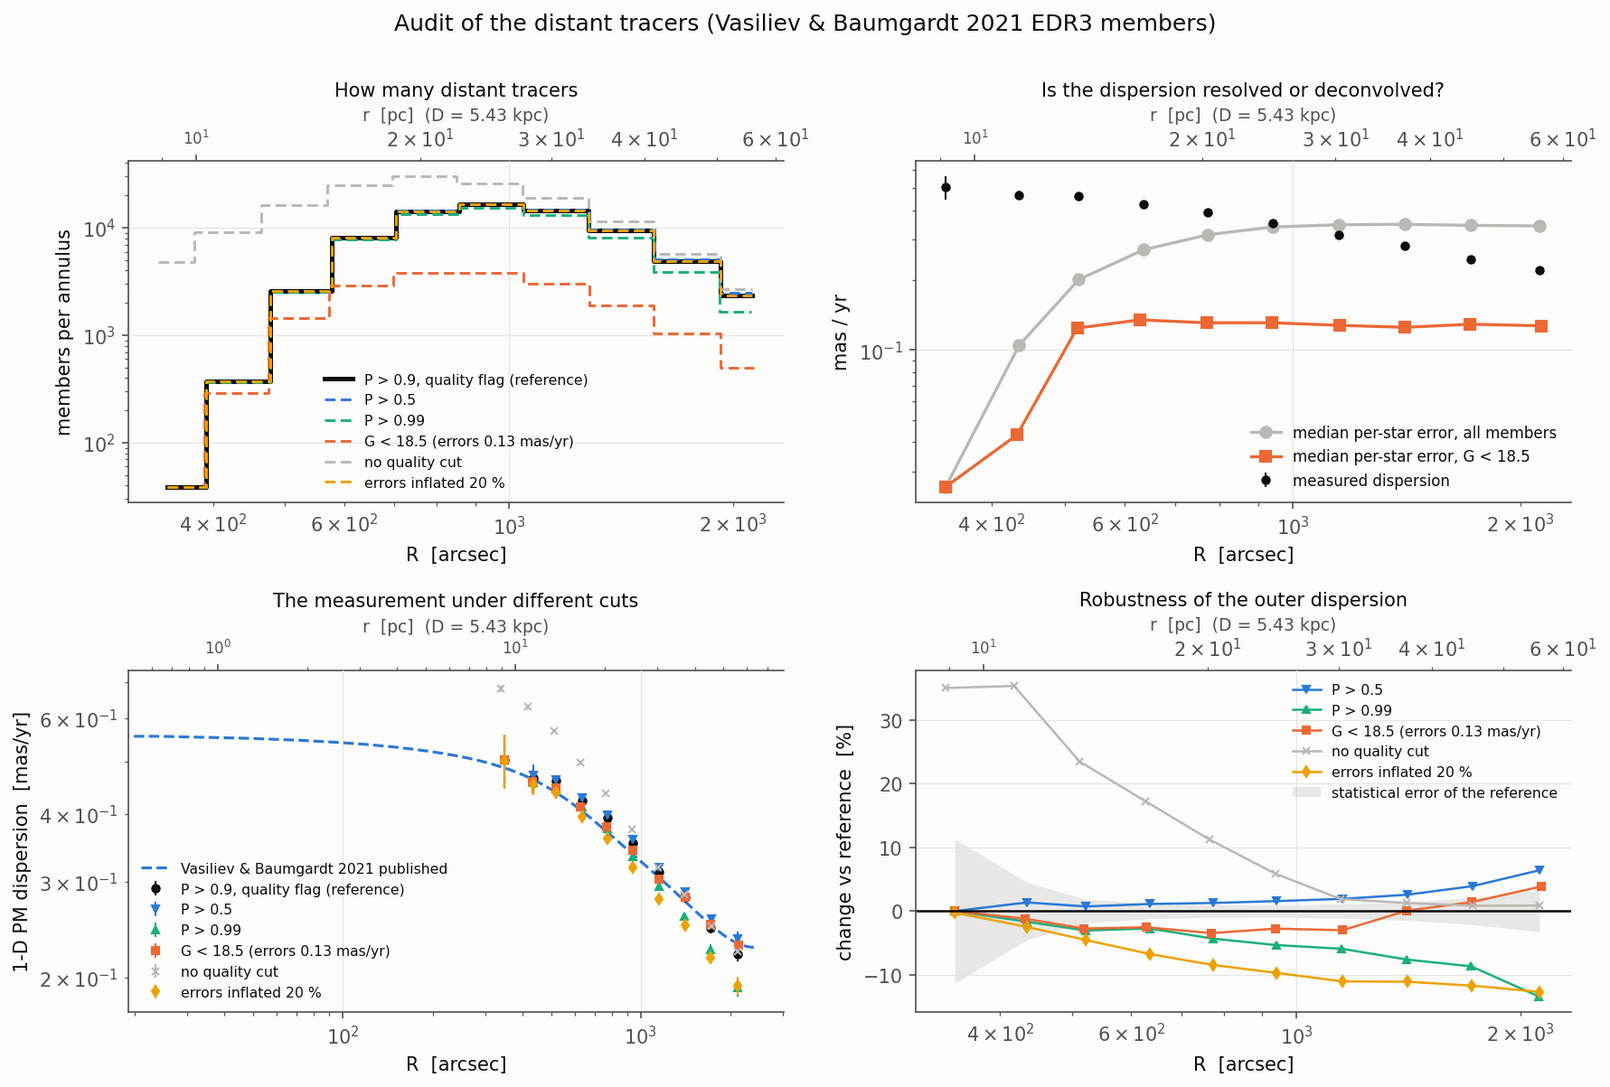
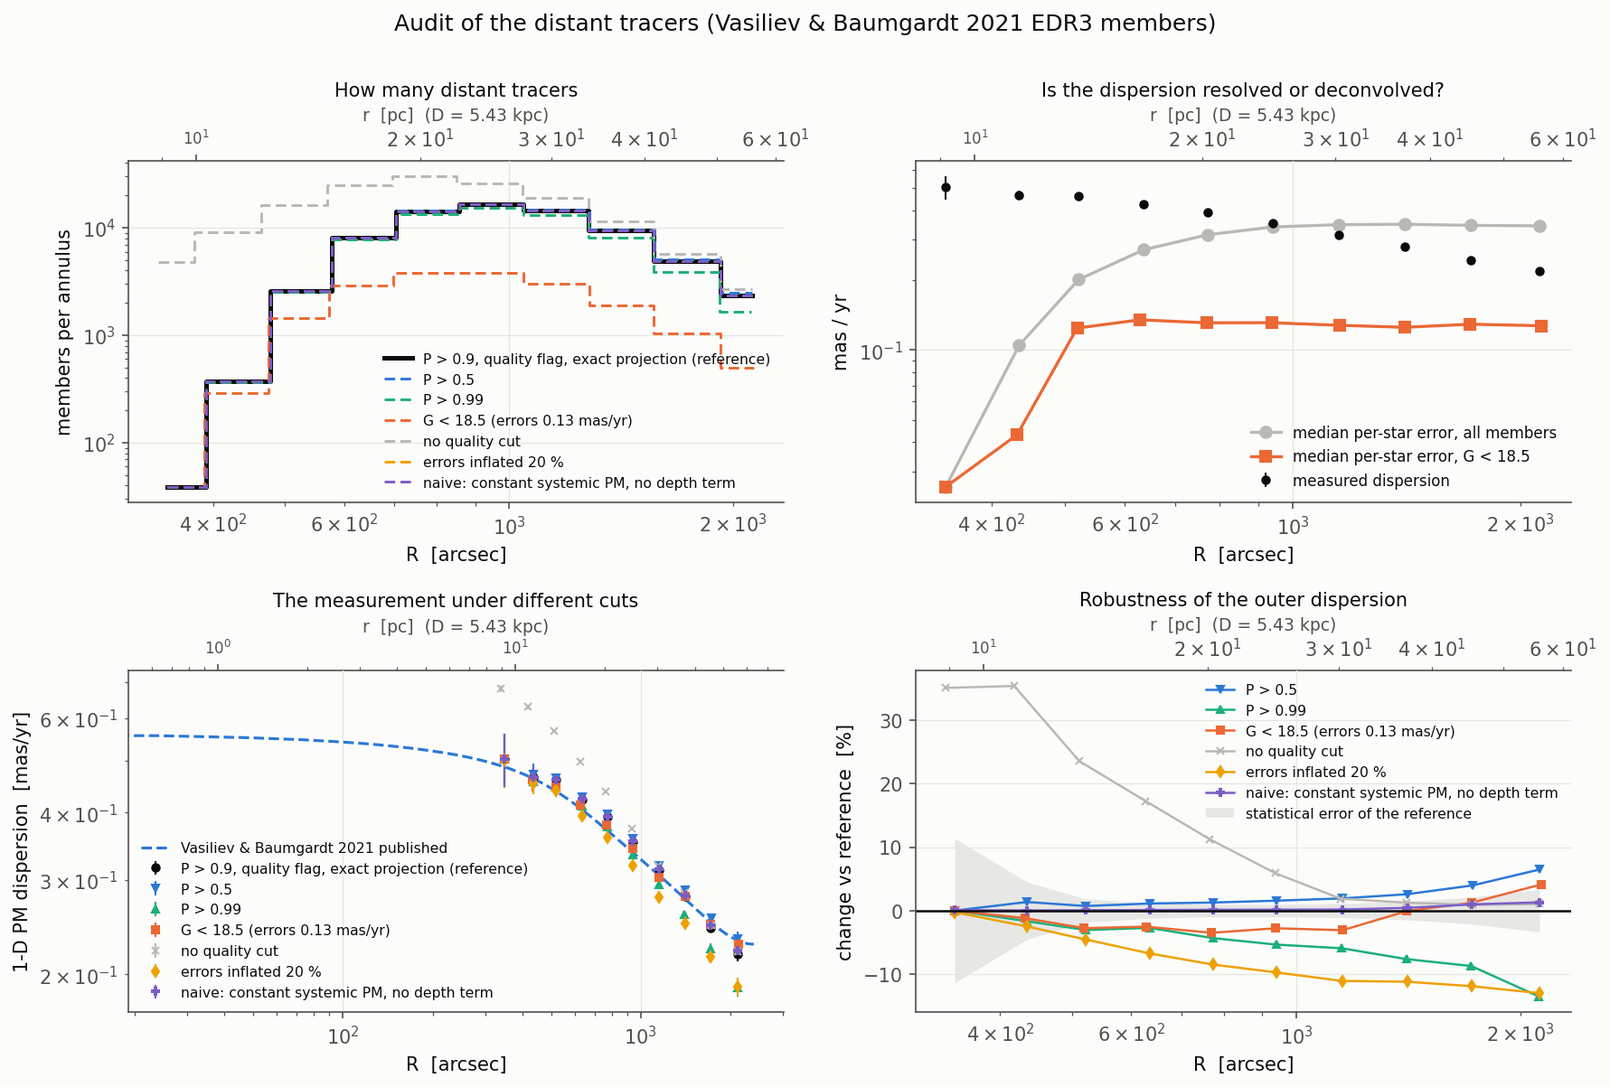
Exact systemic-PM field and line-of-sight depth term for the outer dispersion (Vasiliev & Belokurov 2020 sec 5.1); rigid-cluster mock test

diff --git a/src/ocen_dm/kinematics/outer_profile.py b/src/ocen_dm/kinematics/outer_profile.py
@@ -29,6 +29,7 @@ from astropy.table import Table
 from scipy import optimize
 
 from ..paths import processed_dir
+from .perspective import depth_dispersion, systemic_pm_field, systemic_velocity_vector
 
 __all__ = ["MemberSample", "load_members", "systemic_pm", "dispersion_ml", "binned_dispersion",
            "OCEN_RA", "OCEN_DEC", "OCEN_VSYS_KMS", "KMS_PER_MASYR_KPC"]
@@ -57,15 +58,17 @@ class MemberSample:
     prob: np.ndarray
     g_mag: np.ndarray
     quality_flag: np.ndarray
+    phi: np.ndarray                       # position angle of each star, rad, north through east
     mu_sys: tuple[float, float] = (0.0, 0.0)
+    exact: bool = True                    # systemic field projected star by star, or a constant
 
     def __len__(self) -> int:
         return len(self.r_arcsec)
 
     def select(self, mask: np.ndarray) -> "MemberSample":
         return MemberSample(*(np.asarray(getattr(self, f))[mask] for f in
-                              ("r_arcsec", "mu_r", "mu_t", "err_r", "err_t", "prob", "g_mag", "quality_flag")),
-                            mu_sys=self.mu_sys)
+                              ("r_arcsec", "mu_r", "mu_t", "err_r", "err_t", "prob", "g_mag", "quality_flag", "phi")),
+                            mu_sys=self.mu_sys, exact=self.exact)
 
 
 def systemic_pm(table: Table, r_arcsec: np.ndarray, prob_min: float = 0.9,
@@ -80,11 +83,18 @@ def systemic_pm(table: Table, r_arcsec: np.ndarray, prob_min: float = 0.9,
 
 
 def load_members(path: Any = None, ra0: float = OCEN_RA, dec0: float = OCEN_DEC,
-                 mu_sys: tuple[float, float] | None = None) -> MemberSample:
+                 mu_sys: tuple[float, float] | None = None, v_los: float = OCEN_VSYS_KMS,
+                 distance_kpc: float = 5.43, exact: bool = True) -> MemberSample:
     """Read the processed member table and project PMs and their covariance to (R, T).
 
-    ``mu_sys`` (mas/yr) is subtracted before projecting; by default it is measured from the
-    secure members inside 600 arcsec.
+    The systemic motion is removed **star by star**: the cluster's 3-D velocity (from
+    ``mu_sys`` at the centre, ``v_los`` and ``distance_kpc``) is projected onto each star's
+    own tangent basis (:func:`~ocen_dm.kinematics.perspective.systemic_pm_field`), which
+    carries the perspective contraction and the rotation of the equatorial basis across the
+    field exactly. ``exact=False`` subtracts the constant ``mu_sys`` instead (the naive
+    treatment, kept for comparison). ``mu_sys`` defaults to the error-weighted mean of the
+    secure members inside 600 arcsec, iterated once so that the field's own perspective
+    term does not bias it.
     """
     table = Table.read(path or processed_dir() / "tails" / "vasiliev2021_ocen_members.ecsv")
     ra = np.asarray(table["ra"], float); dec = np.asarray(table["dec"], float)
@@ -95,8 +105,22 @@ def load_members(path: Any = None, ra0: float = OCEN_RA, dec0: float = OCEN_DEC,
     cos_p, sin_p = x / safe, y / safe                            # radial unit vector in (pmra*, pmdec)
     if mu_sys is None:
         mu_sys = systemic_pm(table, r)
-    pmra = np.asarray(table["pmra"], float) - mu_sys[0]
-    pmdec = np.asarray(table["pmdec"], float) - mu_sys[1]
+        if exact:                                   # remove the field once, re-estimate the centre value
+            v0 = systemic_velocity_vector(ra0, dec0, mu_sys[0], mu_sys[1], v_los, distance_kpc)
+            fa, fd = systemic_pm_field(ra, dec, v0, distance_kpc)
+            fa0, fd0 = systemic_pm_field(np.array([ra0]), np.array([dec0]), v0, distance_kpc)
+            corr = Table({"pmra": np.asarray(table["pmra"], float) - (fa - fa0[0]),
+                          "pmdec": np.asarray(table["pmdec"], float) - (fd - fd0[0]),
+                          "pmra_error": table["pmra_error"], "pmdec_error": table["pmdec_error"],
+                          "membership_prob": table["membership_prob"]})
+            mu_sys = systemic_pm(corr, r)
+    if exact:
+        v_sys = systemic_velocity_vector(ra0, dec0, mu_sys[0], mu_sys[1], v_los, distance_kpc)
+        exp_a, exp_d = systemic_pm_field(ra, dec, v_sys, distance_kpc)
+    else:
+        exp_a, exp_d = mu_sys[0], mu_sys[1]
+    pmra = np.asarray(table["pmra"], float) - exp_a
+    pmdec = np.asarray(table["pmdec"], float) - exp_d
     mu_r = pmra * cos_p + pmdec * sin_p
     mu_t = -pmra * sin_p + pmdec * cos_p
     ea = np.asarray(table["pmra_error"], float); ed = np.asarray(table["pmdec_error"], float)
@@ -106,14 +130,17 @@ def load_members(path: Any = None, ra0: float = OCEN_RA, dec0: float = OCEN_DEC,
     err_t = np.sqrt(np.maximum((ea * sin_p) ** 2 + (ed * cos_p) ** 2 - 2 * cov_ad * cos_p * sin_p, 0.0))
     return MemberSample(r, mu_r, mu_t, err_r, err_t,
                         np.asarray(table["membership_prob"], float), np.asarray(table["g_mag"], float),
-                        np.asarray(table["quality_flag"], int), mu_sys=tuple(mu_sys))
+                        np.asarray(table["quality_flag"], int), np.arctan2(x, y),
+                        mu_sys=(float(mu_sys[0]), float(mu_sys[1])), exact=exact)
 
 
 def dispersion_ml(values: np.ndarray, errors: np.ndarray, err_scale: float = 1.0,
-                  sigma_sys: float = 0.0) -> tuple[float, float, float]:
+                  sigma_sys: float = 0.0, extra_var: np.ndarray | float = 0.0) -> tuple[float, float, float]:
     """Maximum-likelihood mean and intrinsic dispersion with per-star errors deconvolved.
 
-    Model: ``value_i ~ N(mean, sigma^2 + (err_scale * err_i)^2 + sigma_sys^2)``.
+    Model: ``value_i ~ N(mean, sigma^2 + (err_scale * err_i)^2 + sigma_sys^2 + extra_var_i)``;
+    ``extra_var`` carries known per-star apparent-dispersion terms such as the line-of-sight
+    depth effect of the systemic proper motion.
 
     Parameters
     ----------
@@ -128,7 +155,7 @@ def dispersion_ml(values: np.ndarray, errors: np.ndarray, err_scale: float = 1.0
         ``sigma`` is the intrinsic dispersion in the units of ``values``; ``sigma_error``
         comes from the curvature of the profile likelihood.
     """
-    v = np.asarray(values, float); e2 = (err_scale * np.asarray(errors, float)) ** 2 + sigma_sys**2
+    v = np.asarray(values, float); e2 = (err_scale * np.asarray(errors, float)) ** 2 + sigma_sys**2 + np.asarray(extra_var, float)
     n = len(v)
     if n < 5:
         return np.nan, np.nan, np.nan
@@ -153,8 +180,16 @@ def dispersion_ml(values: np.ndarray, errors: np.ndarray, err_scale: float = 1.0
 
 def binned_dispersion(sample: MemberSample, edges: np.ndarray, prob_min: float = 0.9,
                       g_range: tuple[float, float] = (-np.inf, np.inf), err_scale: float = 1.0,
-                      sigma_sys: float = 0.0, quality_mask: int | None = None) -> Table:
+                      sigma_sys: float = 0.0, quality_mask: int | None = None,
+                      depth_tracer: Any = None, distance_kpc: float = 5.43) -> Table:
     """Radial and tangential PM dispersion in each annulus, with diagnostics.
+
+    ``depth_tracer`` (a mass component whose density is the tracer's) switches on the
+    line-of-sight depth term: the systemic PM times the depth spread appears as a
+    dispersion ``|mu_sys| sigma_z(R) / D`` along the systemic-PM direction, i.e. a per-star
+    variance ``sigma_depth^2 cos^2(phi - phi_sys)`` in the radial and ``sin^2`` in the
+    tangential component. It is 0.01-0.03 mas/yr for omega Cen and is removed here so the
+    quoted dispersion is internal.
 
     Columns: ``r_lower``, ``r_median``, ``r_upper``, ``n_stars``, ``sigma_pmr``,
     ``sigma_pmr_err``, ``mean_pmr``, ``sigma_pmt``, ``sigma_pmt_err``, ``mean_pmt``,
@@ -165,13 +200,20 @@ def binned_dispersion(sample: MemberSample, edges: np.ndarray, prob_min: float =
     if quality_mask is not None:
         keep &= (sample.quality_flag & quality_mask) > 0
     s = sample.select(keep)
+    phi_sys = np.arctan2(s.mu_sys[0], s.mu_sys[1])
     rows = []
     for lo, hi in zip(edges[:-1], edges[1:]):
         m = (s.r_arcsec >= lo) & (s.r_arcsec < hi)
         if m.sum() < 5:
             continue
-        sr, esr, mr = dispersion_ml(s.mu_r[m], s.err_r[m], err_scale, sigma_sys)
-        st, est, mt = dispersion_ml(s.mu_t[m], s.err_t[m], err_scale, sigma_sys)
+        xr = xt = 0.0
+        if depth_tracer is not None:
+            sd = depth_dispersion(depth_tracer, s.r_arcsec[m] * distance_kpc * 1e3 / 206264.806,
+                                  float(np.hypot(*s.mu_sys)), distance_kpc)
+            dphi = s.phi[m] - phi_sys
+            xr, xt = sd**2 * np.cos(dphi) ** 2, sd**2 * np.sin(dphi) ** 2
+        sr, esr, mr = dispersion_ml(s.mu_r[m], s.err_r[m], err_scale, sigma_sys, xr)
+        st, est, mt = dispersion_ml(s.mu_t[m], s.err_t[m], err_scale, sigma_sys, xt)
         comb = np.sqrt(0.5 * (sr**2 + st**2))
         rows.append((lo, float(np.median(s.r_arcsec[m])), hi, int(m.sum()), sr, esr, mr, st, est, mt,
                      comb, float(np.median(0.5 * (s.err_r[m] + s.err_t[m]))),

diff --git a/tests/test_perspective.py b/tests/test_perspective.py
@@ -1,0 +1,99 @@
+"""Perspective/projection effects: exact field, and a zero-dispersion mock that must read zero."""
+
+from __future__ import annotations
+
+import numpy as np
+import pytest
+
+from ocen_dm.kinematics.perspective import (KMS_PER_MASYR_KPC, depth_dispersion, systemic_pm_field,
+                                            systemic_velocity_vector, unit_vectors)
+from ocen_dm.kinematics.outer_profile import MemberSample, binned_dispersion, dispersion_ml
+from ocen_dm.mass_models import Plummer
+
+RA0, DEC0, D, VLOS = 201.696833, -47.476583, 5.43, 232.6
+PM0 = (-3.248, -6.746)
+
+
+def test_field_matches_astropy_exactly():
+    astropy = pytest.importorskip("astropy")
+    from astropy.coordinates import CartesianDifferential, CartesianRepresentation, ICRS, SkyCoord
+    import astropy.units as u
+    v = systemic_velocity_vector(RA0, DEC0, *PM0, VLOS, D)
+    rng = np.random.default_rng(0)
+    ra = RA0 + rng.uniform(-1, 1, 50); dec = DEC0 + rng.uniform(-0.7, 0.7, 50)
+    n, _, _ = unit_vectors(ra, dec)
+    pos = CartesianRepresentation(n.T * D * u.kpc, differentials=CartesianDifferential(np.tile(v, (50, 1)).T * u.km / u.s))
+    sc = SkyCoord(ICRS(pos))
+    pma, pmd = systemic_pm_field(ra, dec, v, D)
+    np.testing.assert_allclose(pma, sc.pm_ra_cosdec.to_value(u.mas / u.yr), atol=1e-12)
+    np.testing.assert_allclose(pmd, sc.pm_dec.to_value(u.mas / u.yr), atol=1e-12)
+
+
+def test_field_reduces_to_the_perspective_term_at_small_angle():
+    v = systemic_velocity_vector(RA0, DEC0, *PM0, VLOS, D)
+    theta = 0.5                                                   # deg, due north
+    pma, pmd = systemic_pm_field(np.array([RA0]), np.array([DEC0 + theta]), v, D)
+    expected = -VLOS * np.radians(theta) / (KMS_PER_MASYR_KPC * D)   # apparent contraction (approaching? sign from v_los > 0)
+    assert pmd[0] - PM0[1] == pytest.approx(expected, rel=0.02)
+
+
+def _mock_rigid_cluster(n=60000, sigma_int=0.0, seed=1, a_pc=15.0):
+    """Stars in a Plummer sphere moving rigidly with the systemic velocity (plus an optional
+    isotropic internal dispersion), observed with exact geometry including their depth."""
+    rng = np.random.default_rng(seed)
+    # Plummer positions in pc, centre at distance D along the line of sight
+    u3 = rng.uniform(size=n); r = a_pc / np.sqrt(u3 ** (-2 / 3) - 1)
+    r = r[r < 300]; n = len(r)
+    dirs = rng.normal(size=(n, 3)); dirs /= np.linalg.norm(dirs, axis=1)[:, None]
+    n0, e0, nth0 = unit_vectors(RA0, DEC0)
+    pos = D * 1e3 * n0 + r[:, None] * dirs                          # pc, ICRS cartesian
+    dist = np.linalg.norm(pos, axis=1); nhat = pos / dist[:, None]
+    ra = np.degrees(np.arctan2(nhat[:, 1], nhat[:, 0])) % 360; dec = np.degrees(np.arcsin(nhat[:, 2]))
+    v = systemic_velocity_vector(RA0, DEC0, *PM0, VLOS, D)
+    vel = np.tile(v, (n, 1)) + rng.normal(0, sigma_int * KMS_PER_MASYR_KPC * D, size=(n, 3))
+    _, e, nth = unit_vectors(ra, dec)
+    vt = KMS_PER_MASYR_KPC * dist / 1e3
+    pmra = np.sum(vel * e, axis=1) / vt; pmdec = np.sum(vel * nth, axis=1) / vt
+    err = np.full(n, 0.02); pmra += rng.normal(0, err); pmdec += rng.normal(0, err)
+    return ra, dec, pmra, pmdec, err
+
+
+def _project(ra, dec, pmra, pmdec, err, exact):
+    cosd = np.cos(np.radians(DEC0))
+    x = (ra - RA0) * cosd * 3600; y = (dec - DEC0) * 3600; rr = np.hypot(x, y)
+    cp, sp = x / rr, y / rr
+    if exact:
+        v = systemic_velocity_vector(RA0, DEC0, *PM0, VLOS, D)
+        ea, ed = systemic_pm_field(ra, dec, v, D)
+    else:
+        ea, ed = PM0
+    pa, pd = pmra - ea, pmdec - ed
+    mu_r = pa * cp + pd * sp; mu_t = -pa * sp + pd * cp
+    return MemberSample(rr, mu_r, mu_t, err, err, np.ones_like(rr), np.full_like(rr, 18.0),
+                        np.full(len(rr), 3), np.arctan2(x, y), mu_sys=PM0, exact=exact)
+
+
+def test_rigid_cluster_reads_zero_after_exact_correction_and_depth_term():
+    ra, dec, pmra, pmdec, err = _mock_rigid_cluster(sigma_int=0.0)
+    edges = np.array([600.0, 1200.0, 2000.0, 3000.0])
+    tracer = Plummer(1.0, 15.0)
+    exact = binned_dispersion(_project(ra, dec, pmra, pmdec, err, True), edges, prob_min=0.0,
+                              depth_tracer=tracer, distance_kpc=D)
+    naive = binned_dispersion(_project(ra, dec, pmra, pmdec, err, False), edges, prob_min=0.0)
+    # exact + depth term: consistent with zero internal dispersion (errors are 0.02 mas/yr)
+    assert np.all(np.asarray(exact["sigma_pm"]) < 0.01), exact["sigma_pm"]
+    # the depth term alone is real: without it the exact projection still shows |mu_sys| sigma_z / D
+    no_depth = binned_dispersion(_project(ra, dec, pmra, pmdec, err, True), edges, prob_min=0.0)
+    expected = depth_dispersion(tracer, np.asarray(no_depth["r_median"]) * D * 1e3 / 206264.806, np.hypot(*PM0), D)
+    assert np.allclose(np.asarray(no_depth["sigma_pm"]), expected / np.sqrt(2), rtol=0.35)
+    # the naive constant subtraction leaves a spurious signal that grows with radius
+    assert naive["sigma_pm"][-1] > 3 * exact["sigma_pm"][-1]
+    assert naive["sigma_pm"][-1] > 0.02
+
+
+def test_internal_dispersion_recovered_with_the_full_correction():
+    ra, dec, pmra, pmdec, err = _mock_rigid_cluster(sigma_int=0.25, seed=2)
+    edges = np.array([600.0, 1200.0, 2000.0, 3000.0])
+    t = binned_dispersion(_project(ra, dec, pmra, pmdec, err, True), edges, prob_min=0.0,
+                          depth_tracer=Plummer(1.0, 15.0), distance_kpc=D)
+    assert np.allclose(np.asarray(t["sigma_pm"]), 0.25, atol=0.02)

diff --git a/src/ocen_dm/kinematics/perspective.py b/src/ocen_dm/kinematics/perspective.py
@@ -1,0 +1,77 @@
+"""Perspective and projection effects on proper motions across an extended field.
+
+A cluster moving with a single 3-D velocity does not show a single proper motion across
+a 1-degree field (Vasiliev & Belokurov 2020, MNRAS 497, 4162, section 5.1; van de Ven
+et al. 2006 for omega Cen itself). For a star at sky position ``n_i`` and distance
+``D (1 + zeta_i)``:
+
+* the systemic velocity projects onto the star's **own** tangent basis, not the centre's
+  -- the local east/north directions rotate across the field by ~ dRA sin(dec), and the
+  line-of-sight component of the systemic velocity acquires a transverse part
+  ``-(v_los / D) theta`` (perspective contraction/expansion);
+* a star at depth ``zeta`` appears to move slower by ``mu_sys zeta``; the depth is not
+  known star by star, so this term survives as an **apparent dispersion**
+  ``|mu_sys| sigma_z(R) / D`` along the direction of the systemic proper motion.
+
+The first item is removed exactly by :func:`systemic_pm_field`; the second is modelled in
+the likelihood by :func:`depth_dispersion`, using the tracer's line-of-sight depth at each
+projected radius. Both effects are of order 0.05-0.1 mas/yr at 2000 arcsec for omega Cen,
+against a measured dispersion of 0.22 mas/yr.
+"""
+
+from __future__ import annotations
+
+import numpy as np
+
+from ..mass_models.base import MassComponent
+
+__all__ = ["KMS_PER_MASYR_KPC", "unit_vectors", "systemic_velocity_vector", "systemic_pm_field",
+           "depth_dispersion", "systemic_pa"]
+
+KMS_PER_MASYR_KPC = 4.740470463533348
+ARCSEC_PER_RAD = 206264.806
+
+
+def unit_vectors(ra_deg, dec_deg):
+    """Line-of-sight, east and north unit vectors at each position (shape (..., 3))."""
+    a = np.radians(np.asarray(ra_deg, float)); d = np.radians(np.asarray(dec_deg, float))
+    n = np.stack([np.cos(d) * np.cos(a), np.cos(d) * np.sin(a), np.sin(d)], axis=-1)
+    east = np.stack([-np.sin(a), np.cos(a), np.zeros_like(a)], axis=-1)
+    north = np.stack([-np.sin(d) * np.cos(a), -np.sin(d) * np.sin(a), np.cos(d)], axis=-1)
+    return n, east, north
+
+
+def systemic_velocity_vector(ra0, dec0, pmra_cosdec, pmdec, v_los, distance_kpc):
+    """3-D velocity (km/s, ICRS cartesian) of a body at the centre with the given PM and v_los."""
+    n, e, nth = unit_vectors(ra0, dec0)
+    vt = KMS_PER_MASYR_KPC * distance_kpc
+    return v_los * n + pmra_cosdec * vt * e + pmdec * vt * nth
+
+
+def systemic_pm_field(ra_deg, dec_deg, v_sys, distance_kpc):
+    """Proper motion (mas/yr; pmra*cosdec, pmdec) that a star at each position would show if it
+    moved with exactly ``v_sys`` at distance ``distance_kpc``: the systemic velocity projected
+    onto the star's own tangent basis. Exact in angle (no small-angle expansion); first order
+    in the depth offset, which is treated statistically by :func:`depth_dispersion`."""
+    n, e, nth = unit_vectors(ra_deg, dec_deg)
+    vt = KMS_PER_MASYR_KPC * distance_kpc
+    v = np.asarray(v_sys, float)
+    return (e @ v) / vt, (nth @ v) / vt
+
+
+def systemic_pa(pmra_cosdec, pmdec):
+    """Position angle (rad, from north through east) of the systemic proper motion."""
+    return float(np.arctan2(pmra_cosdec, pmdec))
+
+
+def depth_dispersion(tracer: MassComponent, R_pc, mu_sys_masyr: float, distance_kpc: float,
+                     z_max_pc: float = 500.0, n: int = 801) -> np.ndarray:
+    """Apparent PM dispersion from the unknown line-of-sight depth, ``|mu_sys| sigma_z(R) / D``,
+    where ``sigma_z^2(R) = int nu z^2 dz / int nu dz`` along the line of sight through the tracer
+    at projected radius ``R``. Returned in mas/yr, along the direction of the systemic PM."""
+    R = np.atleast_1d(np.asarray(R_pc, float))
+    z = np.linspace(-z_max_pc, z_max_pc, n)
+    r = np.sqrt(R[:, None] ** 2 + z[None, :] ** 2)
+    nu = np.asarray(tracer.density(r.ravel()), float).reshape(r.shape)
+    sz2 = np.trapezoid(nu * z[None, :] ** 2, z, axis=1) / np.trapezoid(nu, z, axis=1)
+    return abs(mu_sys_masyr) * np.sqrt(sz2) / (distance_kpc * 1e3)

diff --git a/src/ocen_dm/plotting/constraints.py b/src/ocen_dm/plotting/constraints.py
@@ -39,10 +39,32 @@ OUTER_EDGES = np.geomspace(300.0, 2400.0, 11)
 QUALITY_BIT = 2
 
 
+_TRACER_CACHE: dict = {}
+
+
+def _composite_tracer(distance_kpc: float = 5.43):
+    """The composite (star-count) tracer MGE, for the line-of-sight depth term."""
+    if distance_kpc not in _TRACER_CACHE:
+        from ..light_model import build_stellar_mge, fit_mge_projected, load_tracer_profile
+        fit = fit_mge_projected(load_tracer_profile("composite"), sigma_range_arcsec=(7.0, 3000.0))
+        _TRACER_CACHE[distance_kpc] = build_stellar_mge(fit, distance_kpc, 1.0)
+    return _TRACER_CACHE[distance_kpc]
+
+
 def our_outer_profile(edges: np.ndarray = OUTER_EDGES, prob_min: float = 0.9,
-                      quality_mask: int | None = QUALITY_BIT, **kwargs) -> Table:
-    """Our error-deconvolved PM dispersion profile from the member catalogue."""
-    return binned_dispersion(load_members(), edges, prob_min=prob_min, quality_mask=quality_mask, **kwargs)
+                      quality_mask: int | None = QUALITY_BIT, exact: bool = True, depth: bool = True,
+                      distance_kpc: float = 5.43, **kwargs) -> Table:
+    """Our error-deconvolved PM dispersion profile from the member catalogue.
+
+    ``exact`` projects the systemic 3-D velocity onto each star's own tangent basis
+    (perspective contraction and basis rotation removed exactly); ``depth`` removes the
+    apparent dispersion from the unknown line-of-sight depth. Both default on; switching
+    them off reproduces the naive constant-subtraction measurement for comparison.
+    """
+    sample = load_members(exact=exact, distance_kpc=distance_kpc)
+    return binned_dispersion(sample, edges, prob_min=prob_min, quality_mask=quality_mask,
+                             depth_tracer=_composite_tracer(distance_kpc) if depth else None,
+                             distance_kpc=distance_kpc, **kwargs)
 
 
 def _model(label: str):
@@ -143,19 +165,17 @@ def plot_constraint_map(path: Path | str = "plots/constraint_map.png",
 def plot_outer_tracer_audit(path: Path | str = "plots/outer_tracer_audit.png") -> Path:
     """Are the distant tracers secure, and is their dispersion resolved rather than deconvolved?"""
     style.apply()
-    sample = load_members()
     edges = OUTER_EDGES
     variants = [
-        ("P > 0.9, quality flag (reference)", dict(prob_min=0.9, quality_mask=QUALITY_BIT), style.INK, "o"),
-        ("P > 0.5", dict(prob_min=0.5, quality_mask=QUALITY_BIT), style.SERIES[0], "v"),
-        ("P > 0.99", dict(prob_min=0.99, quality_mask=QUALITY_BIT), style.SERIES[2], "^"),
-        ("G < 18.5 (errors 0.13 mas/yr)", dict(prob_min=0.9, quality_mask=QUALITY_BIT, g_range=(0, 18.5)),
-         style.SERIES[1], "s"),
-        ("no quality cut", dict(prob_min=0.9), style.COLOR_FIELD, "x"),
-        ("errors inflated 20 %", dict(prob_min=0.9, quality_mask=QUALITY_BIT, err_scale=1.2),
-         style.SERIES_EXTRA, "d"),
+        ("P > 0.9, quality flag, exact projection (reference)", dict(prob_min=0.9), style.INK, "o"),
+        ("P > 0.5", dict(prob_min=0.5), style.SERIES[0], "v"),
+        ("P > 0.99", dict(prob_min=0.99), style.SERIES[2], "^"),
+        ("G < 18.5 (errors 0.13 mas/yr)", dict(prob_min=0.9, g_range=(0, 18.5)), style.SERIES[1], "s"),
+        ("no quality cut", dict(prob_min=0.9, quality_mask=None), style.COLOR_FIELD, "x"),
+        ("errors inflated 20 %", dict(prob_min=0.9, err_scale=1.2), style.SERIES_EXTRA, "d"),
+        ("naive: constant systemic PM, no depth term", dict(prob_min=0.9, exact=False, depth=False), "#7a5cc7", "P"),
     ]
-    tables = [(lab, binned_dispersion(sample, edges, **kw), c, m) for lab, kw, c, m in variants]
+    tables = [(lab, our_outer_profile(edges, **kw), c, m) for lab, kw, c, m in variants]
     ref = tables[0][1]
 
     fig, axes = plt.subplots(2, 2, figsize=(12, 8))

diff --git a/tests/test_outer_profile.py b/tests/test_outer_profile.py
@@ -51,7 +51,7 @@ def _fake_sample(n=4000, sigma=0.3, seed=3):
     err = rng.uniform(0.2, 0.4, n)
     return MemberSample(r, rng.normal(0, sigma, n) + rng.normal(0, err),
                         rng.normal(0, sigma, n) + rng.normal(0, err), err, err,
-                        np.full(n, 0.97), rng.uniform(17, 20, n), np.full(n, 3))
+                        np.full(n, 0.97), rng.uniform(17, 20, n), np.full(n, 3), rng.uniform(-np.pi, np.pi, n))
 
 
 def test_binned_dispersion_columns_and_recovery():
